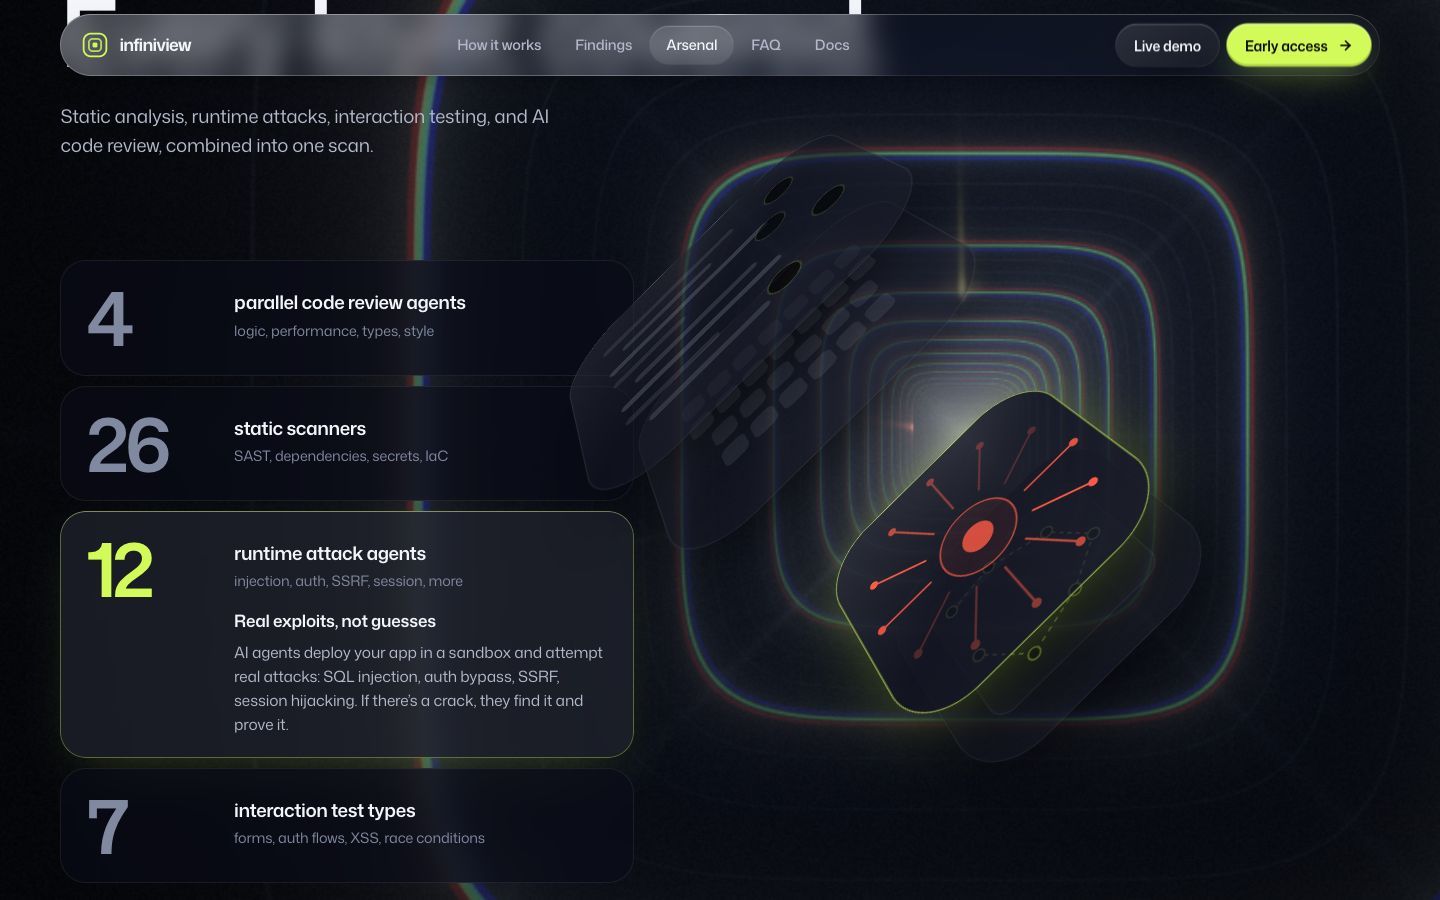
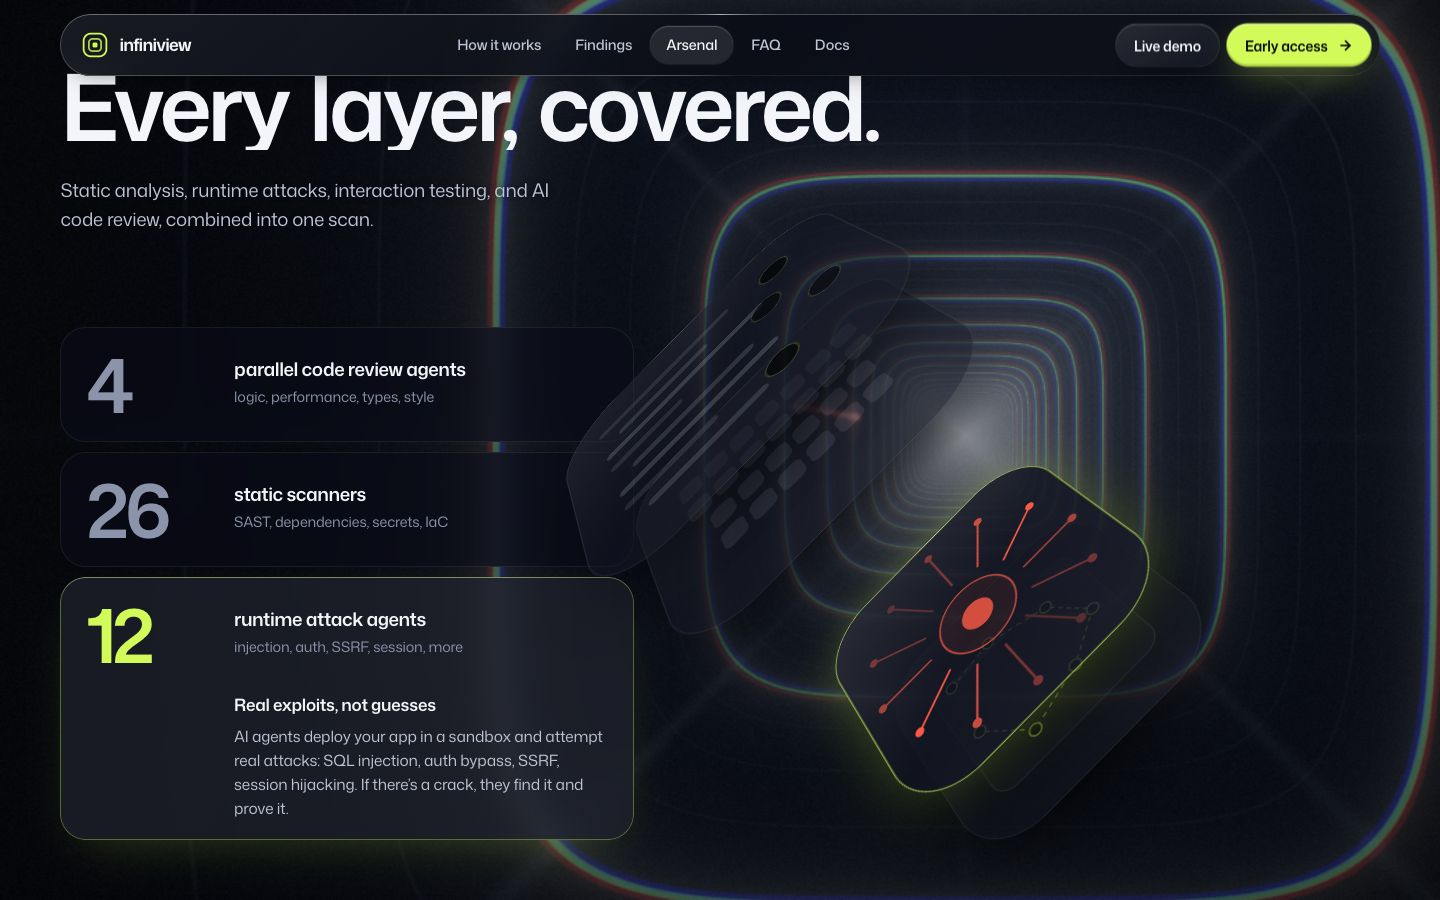
Legibility pass: measured contrast over the corridor, axe fixes, fresh docs
Contrast over the moving canvas is measured from pixels (screenshot, then a
second screenshot with all text transparent to sample the true background),
swept in 0.3-viewport steps at 320, 390, 820, 1280, 1440 and 1920 wide on both
routes. Fixes that came out of it:

- Nav: its own denser glass so headlines scrolling underneath no longer wash
  the links out.
- Phones and portrait tablets: the vanishing point sits behind the copy, so
  the portal glows at half strength there (the finale's peak is unchanged);
  the pipeline step copy gets its own pane; the pipeline chapter opens on a
  calmer mood so its heading and lede read; the pricing intro gets a ground.
- Body copy, kicker and plate labels get a soft dark halo (invisible on the
  dark ground, a local scrim over glow); the hero scan card is denser; the
  findings chapter and the statement's peak run a dimmer portal.
- --iv-ink-2 and --iv-ink-3 lifted a few percent so muted greys keep AA
  headroom over lit glass.
- axe-core: statement words no longer carry an aria-label on a <p>; the hero
  cue uses its visible label. axe now reports no violations on home (desktop,
  mobile, menu, FAQ and console states), pricing and the 404.

README gains notes on page edges and surfaces, security, and accessibility/QA;
screenshots were re-captured from the current build.

diff --git a/src/app/(site)/site.css b/src/app/(site)/site.css
@@ -51,8 +51,8 @@ html.lenis body {
   --iv-void: #03040a;
   --iv-deep: #070914;
   --iv-ink: #f3f5fa;
-  --iv-ink-2: #b3b9ca;
-  --iv-ink-3: #8189a0;
+  --iv-ink-2: #bec4d4;
+  --iv-ink-3: #8c94ab;
   --iv-lime: #d2fb5a;
   --iv-lime-soft: #e6ff9c;
   --iv-lime-deep: #8fb023;
@@ -205,6 +205,22 @@ html.lenis body {
   }
   .tnum {
     font-variant-numeric: tabular-nums;
+  }
+  /* Copy can cross the portal's bright core (the vanishing point moves with the viewport). A soft
+     dark halo is invisible on the dark ground and acts as a local scrim exactly where the glow is.
+     Not used on the lime finale, where the type is dark on a light field. */
+  .t-lede,
+  .t-body,
+  .t-small,
+  .kicker,
+  .plate-label {
+    text-shadow: 0 0 14px rgba(3, 4, 10, 0.7), 0 0 3px rgba(3, 4, 10, 0.4);
+  }
+  .cta .t-lede,
+  .cta .t-body,
+  .cta .t-small,
+  .cta .kicker {
+    text-shadow: none;
   }
 
   /* kicker: a plain sentence-case lead-in, not a tiny shouty label */
@@ -531,7 +547,14 @@ html.lenis body {
     height: 62px;
     padding: 0 9px 0 22px;
   }
-  .nav-bar { transition: background-color 0.4s ease, box-shadow 0.4s ease; }
+  /* Denser than a content pane: display type scrolls underneath the bar, and blurred white
+     letterforms must not wash the links out (measured ≥ 4.5:1 with headlines behind it). */
+  .nav-bar {
+    background:
+      linear-gradient(145deg, rgba(255, 255, 255, 0.08), rgba(255, 255, 255, 0.02) 50%, rgba(255, 255, 255, 0.035)),
+      rgba(5, 7, 16, 0.84);
+    transition: background-color 0.4s ease, box-shadow 0.4s ease;
+  }
   .nav-bar--ink {
     background: linear-gradient(145deg, rgba(7, 10, 2, 0.94), rgba(7, 10, 2, 0.86));
     -webkit-backdrop-filter: none;
@@ -735,6 +758,7 @@ html.lenis body {
   }
   .hero-kicker {
     margin-bottom: clamp(14px, 1.8vw, 26px);
+    color: #d9deea; /* the first line on the page sits on the brightest part of the corridor */
   }
   .hero-h1 {
     /* capped so "before anyone else does." always fits the 1480 frame on two lines */
@@ -832,6 +856,10 @@ html.lenis body {
     --r: 30px;
     padding: 22px 22px 20px;
     max-width: 560px;
+    /* denser than a plain pane: the portal glows right behind this card on wide screens */
+    background:
+      linear-gradient(145deg, rgba(255, 255, 255, 0.09) 0%, rgba(255, 255, 255, 0.02) 38%, rgba(255, 255, 255, 0.04) 100%),
+      rgba(6, 8, 18, 0.7);
   }
   .scan-head {
     display: flex;
@@ -1033,6 +1061,7 @@ html.lenis body {
     max-width: 15ch;
     font-size: clamp(2.6rem, 8vw, 8.4rem);
     line-height: 0.97;
+    text-shadow: 0 0 0.45em rgba(3, 4, 10, 0.55);
   }
   @media (min-width: 900px) {
     .statement-text { max-width: 14ch; }
@@ -1190,6 +1219,20 @@ html.lenis body {
     .stage-col { order: -1; }
     html.js:not(.reveal-failsafe) .pipe-step:not([data-state='active']) { display: none; }
     .pipe-pin { padding-top: 84px; align-items: flex-start; }
+    /* stacked layouts put the copy right over the vanishing-point glow, so it gets its own pane */
+    .pipe-steps { position: relative; isolation: isolate; }
+    .pipe-steps::before {
+      content: '';
+      position: absolute;
+      inset: -8px -14px;
+      z-index: -1;
+      border-radius: 22px;
+      border: 1px solid rgba(255, 255, 255, 0.06);
+      background: rgba(4, 6, 14, 0.8);
+      -webkit-backdrop-filter: blur(14px);
+      backdrop-filter: blur(14px);
+      pointer-events: none;
+    }
   }
 
   /* ── Pipeline: the stage (720×560 design space) ──────────────────────── */
@@ -2234,6 +2277,16 @@ html.lenis body {
   .price-hero .wrap { display: flex; flex-direction: column; gap: clamp(18px, 2.4vw, 30px); }
   .price-title { font-size: clamp(3rem, 8.4vw, 9rem); max-width: 14ch; margin: 0; }
   .price-lede { max-width: 42ch; margin: 0; }
+  /* calm ground behind the intro copy: on phones the vanishing point sits right behind it */
+  .price-hero { position: relative; }
+  .price-hero::before {
+    content: '';
+    position: absolute;
+    inset: 0;
+    pointer-events: none;
+    background: radial-gradient(95% 75% at 30% 52%, rgba(3, 4, 10, 0.7), transparent 80%);
+  }
+  .price-hero .wrap { position: relative; }
   .plans-wrap { padding-bottom: clamp(48px, 6vw, 96px); }
   .plans { display: grid; gap: clamp(12px, 1.4vw, 20px); align-items: stretch; }
   @media (min-width: 960px) { .plans { grid-template-columns: repeat(3, minmax(0, 1fr)); } }

diff --git a/src/components/site/statement.tsx b/src/components/site/statement.tsx
@@ -26,8 +26,11 @@ export function Statement() {
 
         const build = () => {
           if (cancelled) return;
-          split = SplitText.create(el, { type: "words", aria: "auto" });
-          gsap.set(split.words, { opacity: 0.14 });
+          // aria "none": the words stay real text for assistive tech (an aria-label is not allowed on a <p>).
+          // The unlit level is deliberately readable (contrast ≥ 3:1 for large text): it is "not yet read",
+          // not hidden.
+          split = SplitText.create(el, { type: "words", aria: "none" });
+          gsap.set(split.words, { opacity: 0.42 });
           const tl = gsap.timeline({
             scrollTrigger: {
               trigger: root.current!.querySelector(".statement-pin"),
@@ -37,7 +40,7 @@ export function Statement() {
               scrub: 0.6,
               anticipatePin: 1,
               refreshPriority: 1,
-              onUpdate: (self) => setMood({ portal: 0.55 + self.progress * 0.5 }, 0.6),
+              onUpdate: (self) => setMood({ portal: 0.55 + self.progress * 0.3 }, 0.6),
             },
           });
           tl.to(split.words, { opacity: 1, stagger: 0.12, ease: "none", duration: 1 });

diff --git a/src/components/site/pipeline.tsx b/src/components/site/pipeline.tsx
@@ -239,6 +239,15 @@ export function Pipeline() {
           },
         });
 
+        // the chapter opens on a calmer light than the statement ends on, so its heading and lede read
+        // over the corridor; scrolling back up restores the statement's final glow
+        const head = ScrollTrigger.create({
+          trigger: q(".pipe-head"),
+          start: "top 88%",
+          onEnter: () => setMood(moods[0], 1),
+          onLeaveBack: () => setMood({ alert: 0, energy: 1, portal: 0.85 }, 1),
+        });
+
         // pointer parallax on a wrapper so it composes with the scroll orbit
         let off: (() => void) | undefined;
         if (!isSmall && !window.matchMedia("(hover: none)").matches) {
@@ -257,6 +266,7 @@ export function Pipeline() {
 
         return () => {
           off?.();
+          head.kill();
           st.kill();
           tl.kill();
         };

diff --git a/src/components/site/corridor.tsx b/src/components/site/corridor.tsx
@@ -155,11 +155,15 @@ export function Corridor() {
       );
       gl.uniform2f(U.ptr, scene.px, scene.py);
       gl.uniform1f(U.vel, scene.velocity);
+      // Stacked layouts (phones, portrait tablets) put the copy right over the vanishing point, so
+      // the portal is a soft glow there; the finale's peak (> 0.8) still comes through in full.
+      const p = scene.mood.portal;
+      const portal = aspect > 1.15 ? p : p * 0.5 + Math.max(0, p - 0.8);
       gl.uniform4f(
         U.mood,
         scene.mood.alert,
         scene.mood.energy,
-        scene.mood.portal,
+        portal,
         scene.mood.width,
       );
       gl.uniform2f(U.vp, vpx, vpy);

diff --git a/src/components/site/findings-explorer.tsx b/src/components/site/findings-explorer.tsx
@@ -75,7 +75,7 @@ export function FindingsExplorer() {
           end: "bottom 40%",
           onToggle: (self) => {
             setInView(self.isActive);
-            if (self.isActive) setMood({ alert: 0.25, energy: 0.65, portal: 0.5 }, 1.4);
+            if (self.isActive) setMood({ alert: 0.25, energy: 0.65, portal: 0.32 }, 1.4);
           },
         });
       });

diff --git a/src/components/site/hero.tsx b/src/components/site/hero.tsx
@@ -149,7 +149,6 @@ export function Hero() {
         type="button"
         className="hero-cue"
         onClick={() => scrollToTarget("#how-it-works", { duration: 1.8 })}
-        aria-label="Scroll to how it works"
       >
         <span>Travel down</span>
         <i aria-hidden />

diff --git a/docs/redesign/README.md b/docs/redesign/README.md
@@ -66,6 +66,29 @@ One clock, one scroll engine, no competing animators.
 - Social images and favicon were regenerated from the new hero.
 - `package.json` gains three dependencies (`gsap`, `@gsap/react`, `lenis`), and every dependency is at its latest release (Next 16.4.3, React 19.3.1, ESLint 10.13, lucide-react 1.61, `@neondatabase/serverless` 1.2, `tailwind-merge` 3.7, `@types/*`). The lockfile is regenerated with pnpm 10. ESLint 10 prints unmet-peer warnings from `eslint-config-next`'s bundled `jsx-a11y` and `react` plugins (they have not declared ESLint 10 yet); all rule families still run (verified against a deliberately broken file).
 
+### Page edges and surfaces
+
+The details at the edge of the viewport are part of the design, not leftovers:
+
+- **Overscroll and rubber-banding.** `html`, `body` and the canvas fallback are all the same `#03040a` (set by CSS *and* by the inline bootstrap script before first paint, for every path except the legacy `/preview`), so pulling past either end of the page, or an iOS bounce, never flashes white. `color-scheme: dark` themes native scrollbars, form controls and the overscroll area; `theme-color` colours the mobile browser chrome. `/preview` keeps its own light/dark surface.
+- **Safe areas.** `viewport-fit=cover` with `env(safe-area-inset-*)` on the nav, gutters and footer, so nothing sits under a notch, the Dynamic Island or the home indicator; `100vh` has an `svh` upgrade so phone URL bars do not cut heroes off.
+- **Platform polish.** Themed scrollbars, autofill and caret colours, tap-highlight off, `text-size-adjust`, `prefers-reduced-transparency`, `prefers-contrast`, `forced-colors` and print styles.
+- **Not-found, error and global-error pages** are designed (same shell; `global-error` is dependency-free inline styles), plus a web manifest, maskable and Apple touch icons, and alt text for the social images.
+
+### Security notes
+
+- `POST /api/waitlist` keeps its contract (`{ success: true }`, `already_registered` on a duplicate). It now also requires `application/json`, caps the body at 2 KB, validates the address type and length, and answers `415 / 413 / 400 / 429`. The 429 limiter (8 requests / 10 min per client IP) is **in memory, per server instance**: a best-effort brake, not a guarantee. The durable fix is a rate-limit rule at the edge or WAF.
+- Response headers on every route: `X-Content-Type-Options: nosniff`, `Referrer-Policy: strict-origin-when-cross-origin`, a `Permissions-Policy` that denies camera, microphone, geolocation, payment, USB and FLoC, and a restricted CSP (`base-uri`, `form-action`, `object-src 'none'`, `frame-ancestors` limited to this site and `*.infiniview.dev`). A full script-src CSP is not set: Next's inline bootstrap scripts need nonces, which would force every page dynamic. HSTS is left to the platform.
+- Structured data is serialised with `<` escaped. The theme cookie is `Secure` over HTTPS. `.env*` is git-ignored except `.env.example`.
+- Not changed on purpose: the `already_registered` response (product contract, low sensitivity) and the shared `.infiniview.dev` theme-cookie domain (shared with the product app).
+
+### Accessibility and QA
+
+- **Keyboard**: one tab walk covers every control on both routes; accordions and tabs have real roles, roving focus and Escape/focus-return for the menu. The e2e suite (about 60 real-input tests, run against a production build and the dev server under StrictMode) is green.
+- **axe-core 4.14**: no violations on `/pricing`, the 404 page or the open mobile menu; the home findings (statement `aria-label`, hero cue label, unlit-word contrast) are fixed.
+- **Contrast over a moving background** is something axe cannot evaluate (the corridor is a canvas), so it is measured from pixels: scroll in 0.3-viewport steps, screenshot, screenshot again with all text made transparent (so the true background under every glyph is sampled), and compare against WCAG AA at the 90th-percentile worst pixel. Phones (320, 390), tablet, 1280×720, 1440×900 and 1920×1080, both routes. That audit found and fixed: the nav glass being washed out by headlines scrolling under it, phone/tablet pipeline copy sitting on the portal (now on its own pane), body copy and the scan card over the portal's glow (denser tint, a soft halo on body copy, a dimmer portal in those chapters) and a few muted greys that sat just under 4.5:1.
+- Layout was audited at 12 viewport sizes on both routes for horizontal overflow and clipped elements, and reviewed visually as contact sheets (phone, SE, iPad, tablet landscape, laptop, FHD).
+
 ### Weight (production build, gzip)
 
 JS ≈ 263 KB · CSS ≈ 22 KB · fonts ≈ 126 KB (Mona Sans 96 KB, JetBrains Mono 31 KB) · HTML ≈ 18 KB.
